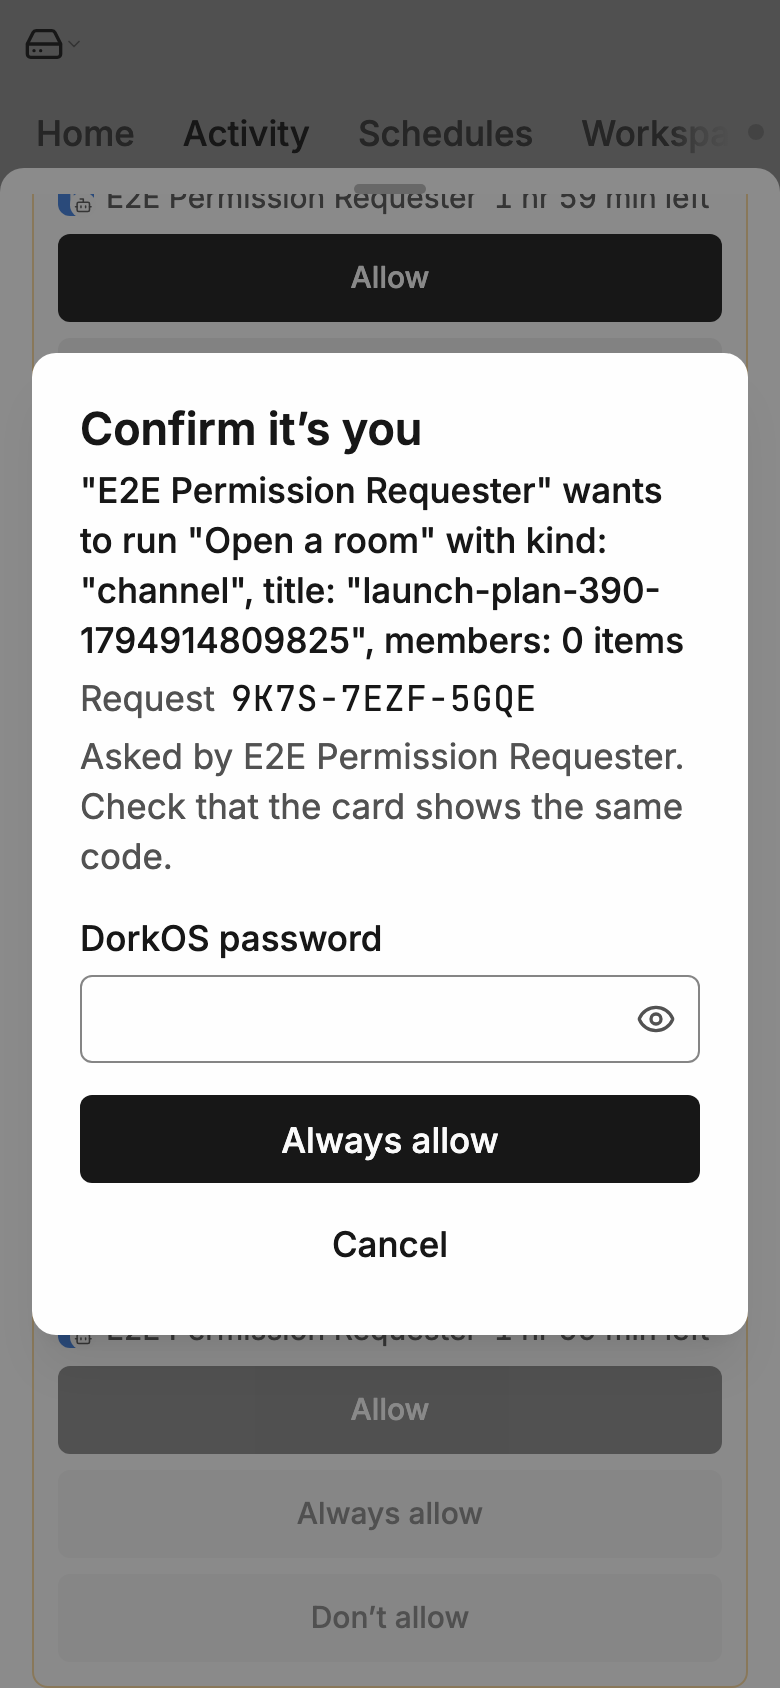
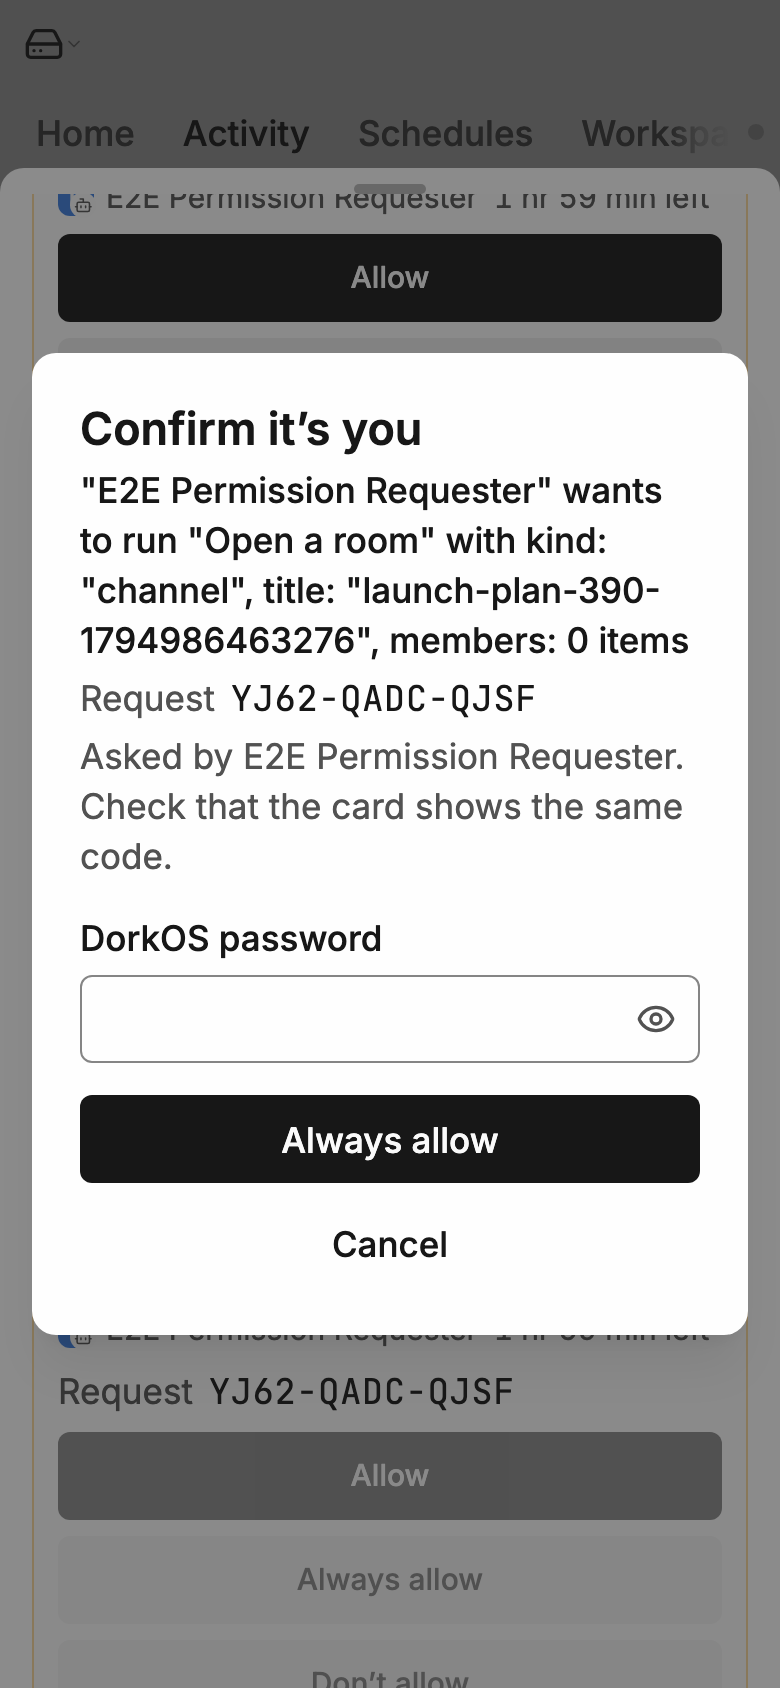
assets: #3888 desk shots at f24367c0b6 (code on the card while the sheet is open)

Changed region(s): [[0.0615, 0.8009, 0.9231, 1.0], [0.2154, 0.3697, 0.8923, 0.4313], [0.0308, 0.9858, 0.0615, 1.0]]

diff --git a/README.md b/README.md
@@ -2,7 +2,7 @@
 
 "Confirm it's you" for remote approvals and Always allow. Taken with headless Playwright on a test-mode server, a throwaway home and made-up data.
 
-- `desk-card-*`, `desk-sheet-*`: at head `d3f2ba0b32`, real and unstaged. An owner is set and Always allow is clicked at this computer. The card stays in its asking state while the sheet is open.
+- `desk-card-*`, `desk-sheet-*`: at head `f24367c0b6`, real and unstaged. An owner is set and Always allow is clicked at this computer. While the sheet is open, the card stays in its asking state, buttons disabled, and shows the same request code as the sheet. No receipt shows until the server confirms.
 - `remote-card-*`, `remote-sheet-*`: at head `b220d5f1b0`; the remote path is unchanged since. Three answers are staged with `page.route`: `/api/approvals/pending` (answering over Remote Access), the grant's 428 and `/api/step-up/:id`. The sheet note in these shots is the old wording.
 
 Each in light, dark and 390px.
